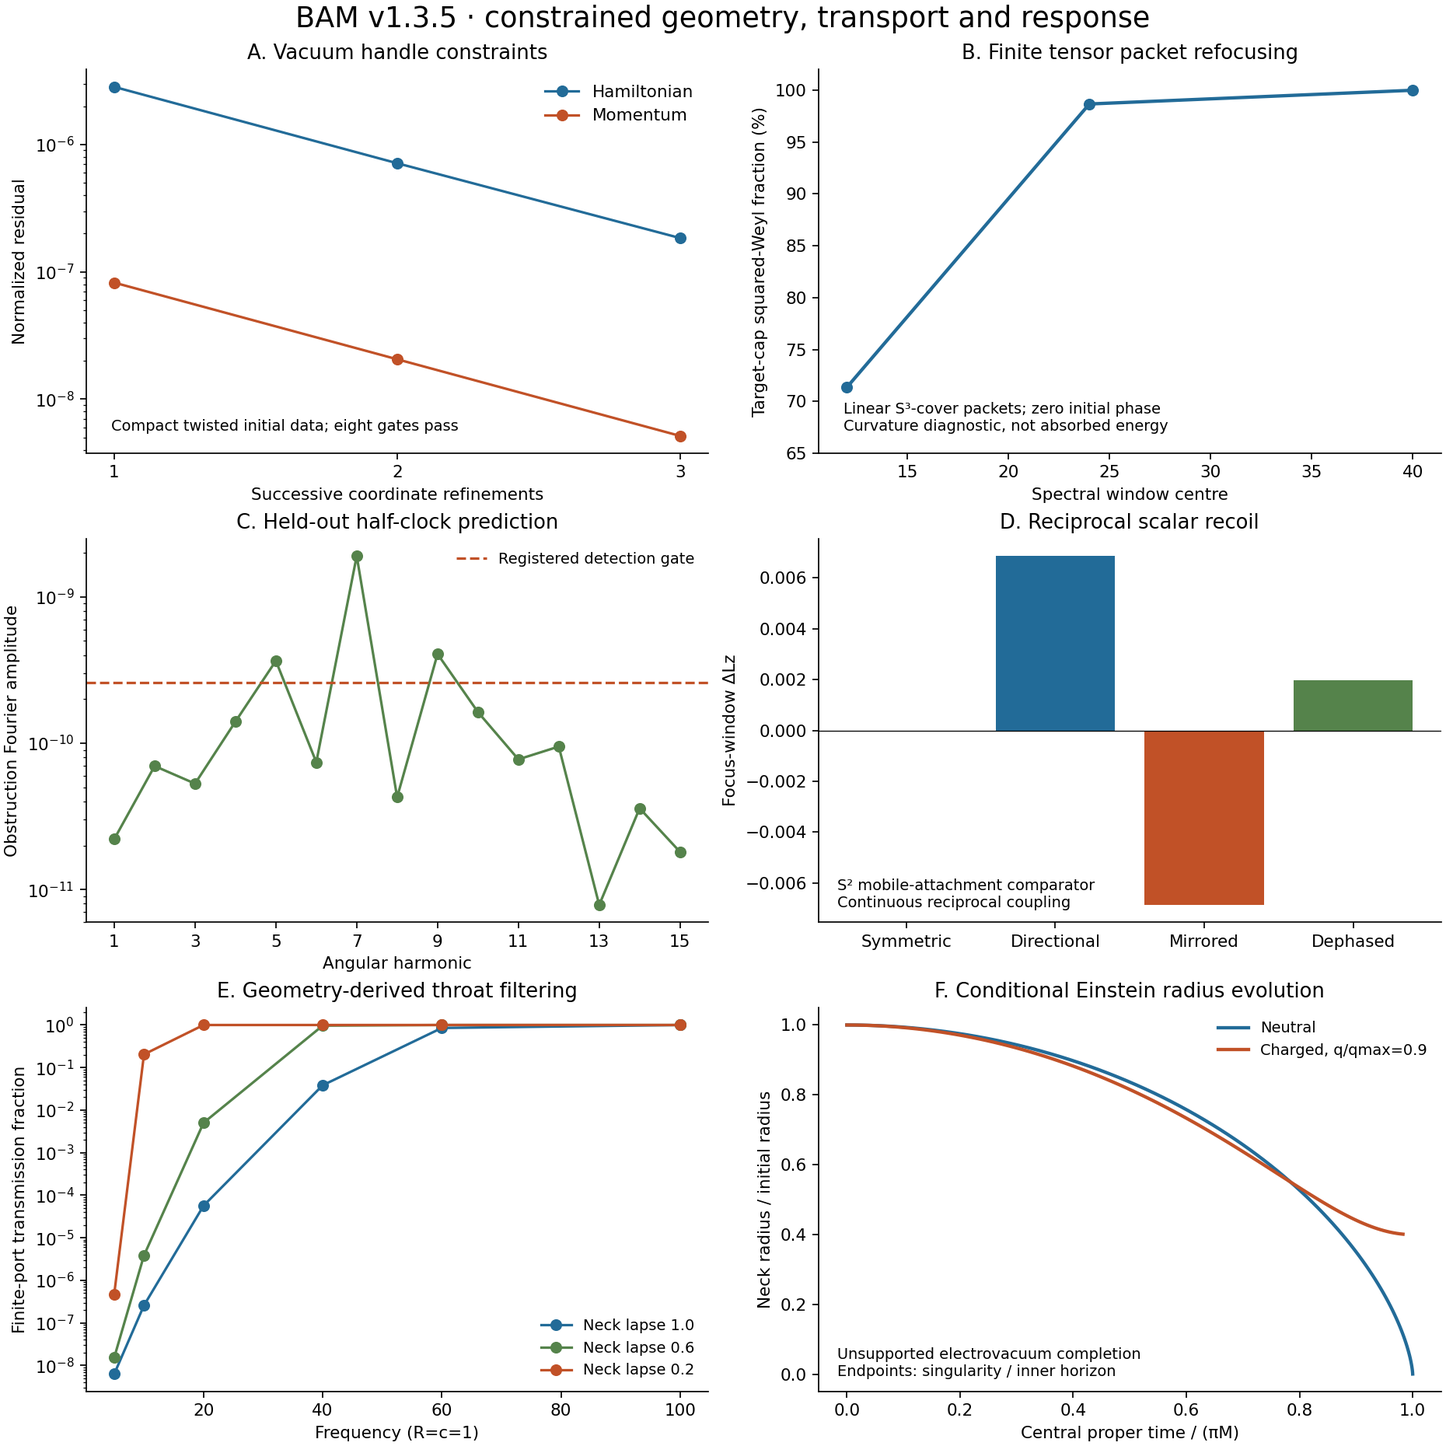
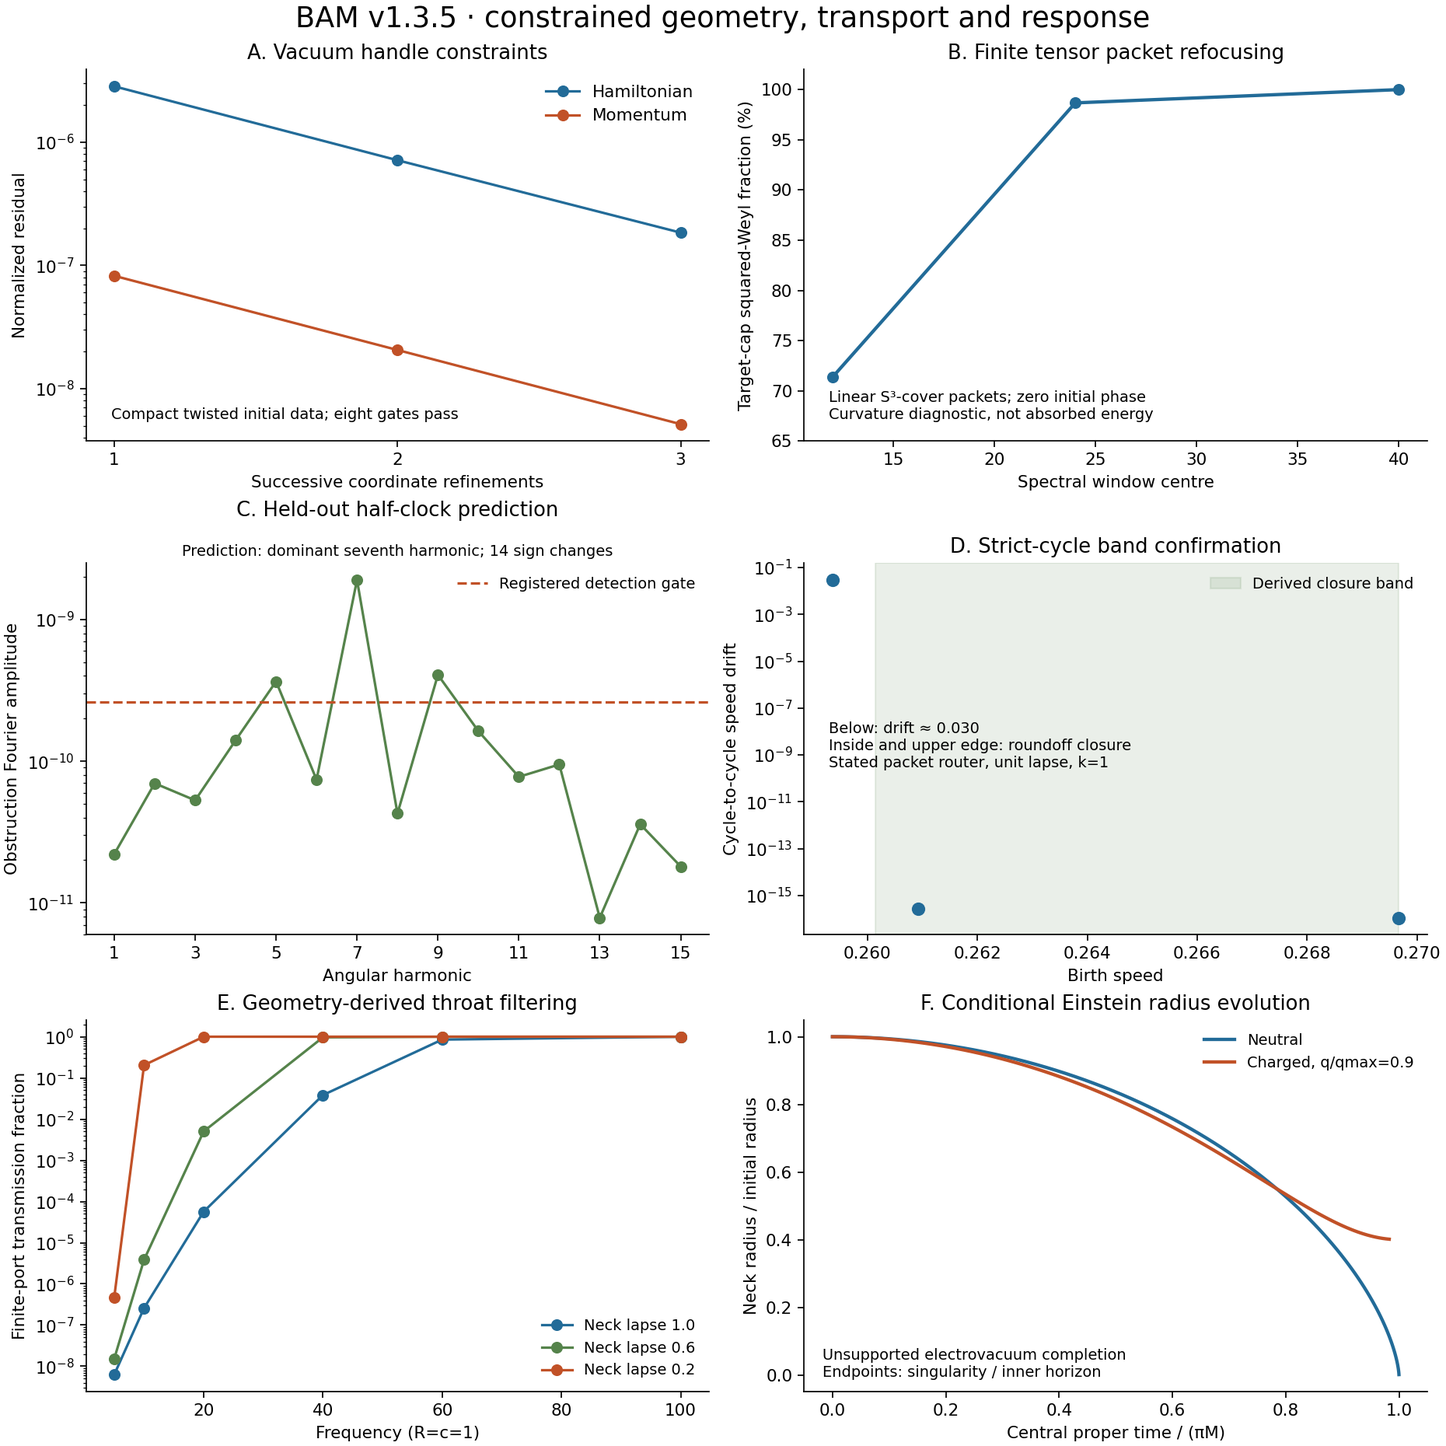
Isolate release builds and sharpen measured capstone results
Remove reliance on host setuptools, verify release dates before tag-triggered publication, and present circulation drift, sampled normal amplification and strict-router band controls. Preserve supporting and historical results.

Validation: 368 indexed tests; isolated build succeeds with deliberately broken host setuptools; deterministic evidence extraction verifies.

diff --git a/tests/test_bam_release_verifier.py b/tests/test_bam_release_verifier.py
@@ -172,3 +172,58 @@ def test_wrong_json_pointer_is_rejected(headline_evidence):
     index['capstone']['headlines'][0]['metrics'][0]['pointer']='/missing'
     with pytest.raises(KeyError):
         catalog.verify_catalog(index,root)
+
+
+def test_sampled_amplification_uses_all_points(headline_evidence):
+    catalog,_,_,_=headline_evidence
+    metric=dict(pointer='/rows',item_pointer='/powers',operation='max_samples',format='.3f')
+    assert catalog.metric_value({'rows':[{'powers':[1.1,2.1]},{'powers':[2.85,1.2]}]},metric)=='2.850'
+
+
+def test_sampled_amplification_rejects_nonfinite_samples(headline_evidence):
+    catalog,_,_,_=headline_evidence
+    metric=dict(pointer='/rows',item_pointer='/powers',operation='max_samples',format='.3f')
+    with pytest.raises(ValueError,match='Invalid sampled bound'):
+        catalog.metric_value({'rows':[{'powers':[1.1,float('nan'),2.1]}]},metric)
+
+
+@pytest.fixture
+def release_dates(tmp_path):
+    spec=importlib.util.spec_from_file_location(
+        'release_metadata_test',Path(__file__).resolve().parents[1]/'scripts/prepare_bam_release_metadata.py')
+    module=importlib.util.module_from_spec(spec);spec.loader.exec_module(module)
+    path=tmp_path/'docs/releases/bam-foundations-evidence.json';path.parent.mkdir(parents=True)
+    path.write_text(json.dumps({'release':'1.3.5'}))
+    (tmp_path/'CITATION.cff').write_text('cff-version: 1.2.0\nversion: 1.3.5\n')
+    (tmp_path/'CHANGELOG.md').write_text('# Changelog\n\n## 1.3.5 — release candidate\n\nResults.\n')
+    return module,tmp_path
+
+
+def test_undated_candidate_cannot_publish(release_dates):
+    module,root=release_dates
+    with pytest.raises(ValueError,match='actual release date'):
+        module.prepare(root)
+
+
+def test_set_release_date_updates_both_files_and_is_idempotent(release_dates):
+    module,root=release_dates
+    assert module.prepare(root,'2026-10-29')=='2026-10-29'
+    assert module.prepare(root)=='2026-10-29'
+    module.prepare(root,'2026-10-30')
+    assert (root/'CITATION.cff').read_text().count('date-released:')==1
+    assert '## 1.3.5 — 2026-10-30' in (root/'CHANGELOG.md').read_text()
+
+
+def test_inconsistent_dates_cannot_publish(release_dates):
+    module,root=release_dates
+    module.prepare(root,'2026-10-29')
+    path=root/'CHANGELOG.md';path.write_text(path.read_text().replace('2026-10-29','2026-10-30'))
+    with pytest.raises(ValueError,match='dates differ'):
+        module.prepare(root)
+
+
+def test_invalid_date_leaves_metadata_untouched(release_dates):
+    module,root=release_dates
+    before={p:p.read_bytes() for p in (root/'CITATION.cff',root/'CHANGELOG.md')}
+    with pytest.raises(ValueError):module.prepare(root,'2026-02-30')
+    assert all(p.read_bytes()==content for p,content in before.items())

diff --git a/scripts/render_bam_capstone.py b/scripts/render_bam_capstone.py
@@ -27,10 +27,14 @@ def main():
     ax.semilogy(np.arange(1,16),h[1:16],'o-',color='#55834b')
     ax.axhline(100*d['noise'],color='#c15127',ls='--',label='Registered detection gate')
     ax.set(title='C. Held-out half-clock prediction',xlabel='Angular harmonic',ylabel='Obstruction Fourier amplitude',xticks=[1,3,5,7,9,11,13,15]);ax.legend(frameon=False,fontsize=9)
-    ax=axes[1,1];d=archived(339)['cases'];names=['symmetric','directional','mirror','dephased']
-    ax.bar(range(4),[d[k]['focus_impulse'][2] for k in names],color=['#888888','#226b98','#c15127','#55834b'])
-    ax.axhline(0,color='black',lw=.6);ax.set(title='D. Reciprocal scalar recoil',xticks=range(4),xticklabels=['Symmetric','Directional','Mirrored','Dephased'],ylabel='Focus-window ΔLz')
-    ax.text(.03,.04,'S² mobile-attachment comparator\nContinuous reciprocal coupling',transform=ax.transAxes,fontsize=9)
+    ax.set_title('C. Held-out half-clock prediction',pad=28)
+    ax.text(.5,1.02,'Prediction: dominant seventh harmonic; 14 sign changes',ha='center',transform=ax.transAxes,fontsize=9)
+    ax=axes[1,1];d=archived(345);band=d['bands'][0];rows=d['router'][:3]
+    ax.axvspan(band['two_port'],band['u_k'],color='#55834b',alpha=.12,label='Derived closure band')
+    ax.semilogy([r['speed'] for r in rows],[r['speed_drift'] for r in rows],'o',color='#226b98',ms=7)
+    ax.set(title='D. Strict-cycle band confirmation',xlabel='Birth speed',ylabel='Cycle-to-cycle speed drift')
+    ax.legend(frameon=False,fontsize=9,loc='upper right')
+    ax.text(.04,.45,'Below: drift ≈ 0.030\nInside and upper edge: roundoff closure\nStated packet router, unit lapse, k=1',transform=ax.transAxes,fontsize=9)
     ax=axes[2,0];data=ROOT/'experiments/closure_ledger/runs';rows=json.loads((data/'20261028_maxwell_throat/scattering.json').read_text())
     for depth,color in [(0.,'#226b98'),(.4,'#55834b'),(.8,'#c15127')]:
         sub=[r for r in rows if r['angle']==.3 and r['ell']==1 and r['charge_fraction']==0 and r['lapse_depth']==depth]
@@ -43,7 +47,10 @@ def main():
     ax.set(title='F. Conditional Einstein radius evolution',xlabel='Central proper time / (πM)',ylabel='Neck radius / initial radius');ax.legend(frameon=False,fontsize=9)
     ax.text(.03,.04,'Unsupported electrovacuum completion\nEndpoints: singularity / inner horizon',transform=ax.transAxes,fontsize=9)
     fig.suptitle('BAM v1.3.5 · constrained geometry, transport and response',fontsize=17)
-    fig.savefig(ROOT/'docs/images/releases/bam_capstone.png',dpi=155)
+    target=ROOT/'docs/images/releases/bam_capstone.png'
+    pending=target.with_suffix('.tmp.png')
+    fig.savefig(pending,dpi=155)
+    pending.replace(target)
     plt.close(fig)
 
 if __name__=='__main__':main()

diff --git a/scripts/prepare_bam_release_metadata.py b/scripts/prepare_bam_release_metadata.py
@@ -1,0 +1,38 @@
+"""Set the actual release date before committing/tagging; or validate tag metadata."""
+import argparse
+from datetime import date
+import json
+from pathlib import Path
+import re
+
+ROOT = Path(__file__).resolve().parents[1]
+
+
+def prepare(root=ROOT, release_date=None):
+    root=Path(root)
+    version=json.loads((root/'docs/releases/bam-foundations-evidence.json').read_text())['release']
+    cff=root/'CITATION.cff'
+    changelog=root/'CHANGELOG.md'
+    if release_date is not None:
+        day=date.fromisoformat(release_date).isoformat()
+        text=re.sub(r'^date-released:.*\n?', '', cff.read_text(), flags=re.M)
+        citation=text.rstrip()+f'\ndate-released: {day}\n'
+        text,n=re.subn(r'^## '+re.escape(version)+r' — .*$', f'## {version} — {day}',changelog.read_text(),count=1,flags=re.M)
+        if n!=1:raise ValueError('Release changelog entry missing')
+        cff.write_text(citation)
+        changelog.write_text(text)
+    matches=re.findall(r'^date-released: (\d{4}-\d{2}-\d{2})$',cff.read_text(),flags=re.M)
+    if len(matches)!=1:raise ValueError('Set the actual release date before tagging with --date YYYY-MM-DD')
+    day=date.fromisoformat(matches[0]).isoformat()
+    if f'## {version} — {day}' not in changelog.read_text().splitlines():
+        raise ValueError('Citation and changelog release dates differ')
+    return day
+
+
+if __name__=='__main__':
+    parser=argparse.ArgumentParser(description=__doc__)
+    group=parser.add_mutually_exclusive_group(required=True)
+    group.add_argument('--date', help='Actual release date, set before committing and tagging')
+    group.add_argument('--check',action='store_true')
+    args=parser.parse_args()
+    print(prepare(release_date=args.date))

diff --git a/scripts/bam_release_catalog.py b/scripts/bam_release_catalog.py
@@ -20,6 +20,11 @@ def pointer(value, path):
 
 def metric_value(data, metric):
     value = pointer(data, metric['pointer'])
+    if metric.get('operation') == 'max_samples':
+        samples = [float(x) for item in value for x in pointer(item, metric['item_pointer'])]
+        if not samples or not all(math.isfinite(x) for x in samples):
+            raise ValueError('Invalid sampled bound')
+        value = max(samples)
     if metric.get('operation') == 'difference':
         if len(value) != 2:
             raise ValueError('Separation requires exactly two centres')

diff --git a/scripts/build_bam_release_assets.py b/scripts/build_bam_release_assets.py
@@ -45,7 +45,7 @@ def main():
     target.mkdir(parents=True, exist_ok=True)
     version = index['release']
     subprocess.run([sys.executable, '-m', 'pip', 'wheel', str(ROOT), '--no-deps',
-                    '--no-build-isolation', '--wheel-dir', str(target)], check=True)
+                    '--wheel-dir', str(target)], check=True)
     wheel = target/f'geometrodynamics-{version}-py3-none-any.whl'
     if not wheel.is_file():
         raise ValueError('Wheel version does not match evidence index')

diff --git a/docs/releases/bam-foundations-1.3.5.md b/docs/releases/bam-foundations-1.3.5.md
@@ -22,16 +22,15 @@ the saved data or the printed table unless they are deliberately reconciled.
 | [Localized handle initial data](https://github.com/davidmdrpi/geometrodynamics/blob/19a674d8625469c869c4f373efe062c7ab55c1e1/docs/localized_mouth_error_budget.md) | registered gates: **8**; reference H residual: **3.95608e-08** | Chosen four-scalar family; independent coordinate error budget, not a vacuum derivation. |
 | [Tensor Floquet refocusing](https://github.com/davidmdrpi/geometrodynamics/blob/109c7ee6146d1e3134bbad33f1b380db06b4f0cc/docs/esu_floquet_refocusing.md) | infidelity exponent: **1.9520** | Linear tensor sector of the supported breathing ESU; other sectors have separate stability verdicts. |
 | [Finite tensor packet transit](https://github.com/davidmdrpi/geometrodynamics/blob/b8b6cbd9c4e9ad9c275561d49cedbca4e7e5710b/docs/finite_packet_first_transit.md) | target cap fraction (%): **98.6686** | Centre-24, zero-phase S³-cover packet; squared-Weyl fraction is a curvature diagnostic, not absorbed energy. |
-| [Two-region metric response](https://github.com/davidmdrpi/geometrodynamics/blob/1fcbd30df62d36df318bd57570d4a98cc3a6e114/docs/two_gravitating_regions.md) | off-diagonal response A←B: **-0.0225323** | Proper matter inventory response for overlapping seeds; registered coarse-grid gate remains failed; not body acceleration. |
-| [Poincaré–Cartan implementation](https://github.com/davidmdrpi/geometrodynamics/blob/8388f7f7056677e3d79ca43f80647d77432d0d21/docs/dynamical_action_selection.md) | numerical check passed: **true** | Conserved preparation-loop circulation checks canonical dynamics, not physical action selection. |
+| [Poincaré–Cartan implementation](https://github.com/davidmdrpi/geometrodynamics/blob/8388f7f7056677e3d79ca43f80647d77432d0d21/docs/dynamical_action_selection.md) | relative circulation drift: **3.58e-14** | Preparation loop at epsilon=0.01; conservation of the Poincaré–Cartan circulation, not physical action selection. |
 | [R3 polarization-dependent shift](https://github.com/davidmdrpi/geometrodynamics/blob/b1b265bb14a432fc14f0353aee46e22cd531d16e/docs/r3_extension.md) | largest sampled coefficient: **0.847972** | Homogeneous constrained return map; local shift toward resonance, not proof of a crossing. |
-| [R3 closed two-return family](https://github.com/davidmdrpi/geometrodynamics/blob/e226d69d8a87ea3d849827c51d41eb4ad0001c47/docs/r3_family.md) | loop action: **0.018847372581**; action uncertainty: **1.6e-09** | Traced diagonal-circular family at one action; elliptic diagonal response with unreduced secular drift and ESU instability. |
-| [Bounded R3 normal response](https://github.com/davidmdrpi/geometrodynamics/blob/80d894a9304b9c1cbe4db51b955865a0083d6f4b/docs/r3_normal_quotient.md) | constraint residual: **2.38e-13** | Linear centre quotient after removing rotation/family tangents and excluding the physical hyperbolic pair; finite horizon. |
+| [R3 closed two-return family](https://github.com/davidmdrpi/geometrodynamics/blob/e226d69d8a87ea3d849827c51d41eb4ad0001c47/docs/r3_family.md) | loop action: **0.0188473726**; action uncertainty: **1.6e-09** | Traced diagonal-circular family at one action; elliptic diagonal response with unreduced secular drift and ESU instability. |
+| [Bounded R3 normal response](https://github.com/davidmdrpi/geometrodynamics/blob/80d894a9304b9c1cbe4db51b955865a0083d6f4b/docs/r3_normal_quotient.md) | largest tested amplification: **2.8512** | Linear centre quotient; sampled powers 1–1024 across twelve family points. Physical hyperbolic pair excluded; unreduced system remains unstable. |
 | [Held-out half-clock prediction](https://github.com/davidmdrpi/geometrodynamics/blob/196fc881782f270ec09cb705584d9896079ac406/docs/r3_half_clock.md) | dominant harmonic: **7**; sign changes: **14**; seventh coefficient: **1.9060575e-09** | Resolved angular harmonic and sign changes; conventional symmetry selection, not action quantization. |
 | [Order-twelve selection](https://github.com/davidmdrpi/geometrodynamics/blob/39e3527b4b5b16c46f21f20f43b4da3bc93a1a26/docs/r3_diagonal_symmetry.md) | sampled points: **24**; commutator defect: **3.26e-14** | Sampled commuting half-clock and axis-permutation actions; whole-circle extension remains a condition. |
 | [Directional antipodal recoil](https://github.com/davidmdrpi/geometrodynamics/blob/4e6223a20680f0827708798a2b8b7817ec76b582/docs/antipodal_kick_results.md) | focus-window ΔLz: **0.00686137**; focus activity (%): **92.88** | Smooth round-S² scalar comparator with a reciprocal mobile attachment; continuous coupling. |
 | [Reciprocal moving pairs](https://github.com/davidmdrpi/geometrodynamics/blob/45224b64399583c949ead4b90eaa64cfeda64641/docs/moving_mouth_pairs_results.md) | axis A motion (degrees): **3.19186**; axis B motion (degrees): **8.44402** | Two constrained antipodal pairs in an effective S² scalar Hamiltonian; no evolving handled metric. |
-| [Strict-cycle timing bands](https://github.com/davidmdrpi/geometrodynamics/blob/cd70f0fa1386dc95c648a8c2bdf5565025f43e20/docs/pair_birth_timeline.md) | lower speed (open): **0.26014413**; upper speed (closed): **0.26967136**; flash transmission: **9.41286e-08** | Final PR #345 packet reduction; unit neck lapse, k=1. Exact router closure retains stated capture/rebirth laws and omits scattering phases. |
+| [Strict-cycle timing bands](https://github.com/davidmdrpi/geometrodynamics/blob/cd70f0fa1386dc95c648a8c2bdf5565025f43e20/docs/pair_birth_timeline.md) | lower speed (open): **0.26014413**; upper speed (closed): **0.26967136**; flash transmission: **9.41286e-08**; speed drift inside: **2.8e-16**; speed drift below: **0.030** | Final PR #345 packet reduction; unit neck lapse, k=1. Exact router closure retains stated capture/rebirth laws and omits scattering phases. |
 | [Exact S³ Maxwell refocusing](https://github.com/davidmdrpi/geometrodynamics/blob/dc9c6890ea2fd843cafbd53f7b2ee64746cb5fd9/docs/s3_maxwell_encounter.md) | full-field defect: **8.66e-15** | Prepared source-free dipole-sector Maxwell reference on the round S³. |
 | [Geometry-derived throat scattering](https://github.com/davidmdrpi/geometrodynamics/blob/dc9c6890ea2fd843cafbd53f7b2ee64746cb5fd9/docs/maxwell_throat_response.md) | cases: **138**; unitarity defect: **6.852e-10**; phase-force error: **5.53e-08** | Finite ports and specified supported lapse; independent boundary-map and phase-force checks. |
 | [Action-derived attraction](https://github.com/davidmdrpi/geometrodynamics/blob/dc9c6890ea2fd843cafbd53f7b2ee64746cb5fd9/docs/deformable_alice_boundary.md) | separation: **8.229874**; prepared radiation (% rest energy): **42.37** | 1+1-D three-field kink analogue with prepared radiation; t=120, dx=0.05. |
@@ -106,16 +105,19 @@ commits. Missing objects fail explicitly. The index records which tests were
 run for this candidate; pinned side-branch studies are authenticated historical
 results, not newly repeated full simulations.
 
-**Candidate validation:** the indexed `--tests` command passes all 362 tests,
-including fourteen verifier regressions. The 1.3.5 wheel passes isolated import and two-port numerical
-checks; an extracted evidence bundle verifies without Git. Earlier full CI passed
+**Candidate validation:** the indexed `--tests` command passes all 368 tests,
+including twenty verifier and release-metadata regressions. The 1.3.5 wheel passes isolated import and two-port numerical
+checks; an extracted evidence bundle verifies without Git. The isolated asset
+build also passes with a deliberately incompatible host setuptools. Earlier full CI passed
 on Python 3.10 and 3.12 at `df4cb86`; the new candidate must pass its own CI.
 
 ## Release preparation
 
 Package version, wheel version and planned tag are **1.3.5**. After this PR's
-checks pass, preserve its history with a merge commit, then create `v1.3.5` at
-that merge commit. Do not squash away the pinned import ancestor. Once that tag
+checks pass, set the actual release date in the citation and changelog with
+`python scripts/prepare_bam_release_metadata.py --date YYYY-MM-DD`, replacing
+the placeholder with the publication date. Commit those metadata changes, preserve
+this PR history with a merge commit, then create `v1.3.5` at that merge commit. Do not squash away the pinned import ancestor. Once that tag
 exists, `python scripts/verify_bam_foundations_release.py --ref v1.3.5` audits the
 release imports at the tag; the original snapshot audit above remains separate.
 
@@ -128,10 +130,16 @@ python scripts/build_bam_release_assets.py --output-dir dist/bam-1.3.5
 The tarball contains the selected run data, original manifests, images, capstone
 snapshots, index, release notes and verification scripts. Historical side-branch
 raw archives that are only linked in the index are not silently claimed as
-bundled. The preparation workflow uploads these files as CI artifacts. Attaching
-them to the GitHub release is a separate publishing step after the tag exists.
+bundled. The wheel uses an isolated PEP 517 build environment, so it does not
+depend on a distribution-patched host setuptools. The preparation workflow uploads
+the files as temporary CI artifacts, which require sign-in and expire. On a
+`v1.3.5` tag push, a separate publishing job checks the dated metadata and asset
+checksums, then creates the GitHub release with these files attached. Only that
+tag-triggered job has write permission. PR and manual preparation runs cannot
+publish a release.
 
 [CITATION.cff](../../CITATION.cff) and [CHANGELOG.md](../../CHANGELOG.md) provide
-citation metadata and a release entry. The repository already links a Zenodo
-record; a version-specific DOI requires the maintainer's Zenodo/GitHub integration
+citation metadata and a dated candidate entry. The citation records the existing
+Zenodo DOI from the README, explicitly as the existing repository record;
+a version-specific DOI requires the maintainer's Zenodo/GitHub integration
 and is not assigned by this PR.

diff --git a/docs/releases/bam-foundations-research-record.md b/docs/releases/bam-foundations-research-record.md
@@ -1,11 +1,12 @@
 # BAM foundations — research record
 
-**A reproducible research release of the wave, scattering and mechanical
-building blocks for the coupled BAM model.** This release brings the strongest
-verified results from the PR #349 research sequence onto `main`, with their
-source, tests, figures and original numerical histories. It prepares a common
-baseline for the next model release; it does not announce a completed derivation
-of mouth attraction, nonsingular annihilation or quantum field theory.
+**Record of the earlier foundations candidate assembled from the PR #349
+research sequence.** This document preserves its measurements, controls,
+negative results and stated limitations. The current v1.3.5 release overview
+is [the capstone notes](bam-foundations-1.3.5.md). The earlier candidate brought
+these source files, tests and original numerical histories together; it did not
+establish a completed derivation of mouth attraction, nonsingular annihilation
+or quantum field theory.
 
 ![Four verified building blocks](../images/releases/bam_foundations.png)
 
@@ -245,3 +246,13 @@ The overview figure is generated from the included data and the exact S³
 reference by `python scripts/render_bam_foundations_release.py`. It is a
 scientific comparison of separate models, not a visualization of a solved BAM
 matter-wave cycle.
+
+
+## Supporting two-region result
+
+PR #312 measured a metric effect on proper matter inventories for overlapping
+seeds. Its registered coarse-grid gate remains failed, and the regional
+momentum rates are not body accelerations. The capstone index retains the
+byte-identical `pr312.json` control snapshot under `supporting_results`, with
+its original measurement, scope and pinned source/test links. See the
+[pinned report](https://github.com/davidmdrpi/geometrodynamics/blob/1fcbd30df62d36df318bd57570d4a98cc3a6e114/docs/two_gravitating_regions.md).

diff --git a/CHANGELOG.md b/CHANGELOG.md
@@ -1,6 +1,6 @@
 # Changelog
 
-## 1.3.5 — release candidate
+## 1.3.5 — release candidate (prepared 2026-10-29)
 
 Capstone of PR #301–#350 since v1.3.0. See the
 [data-generated release notes](docs/releases/bam-foundations-1.3.5.md).
